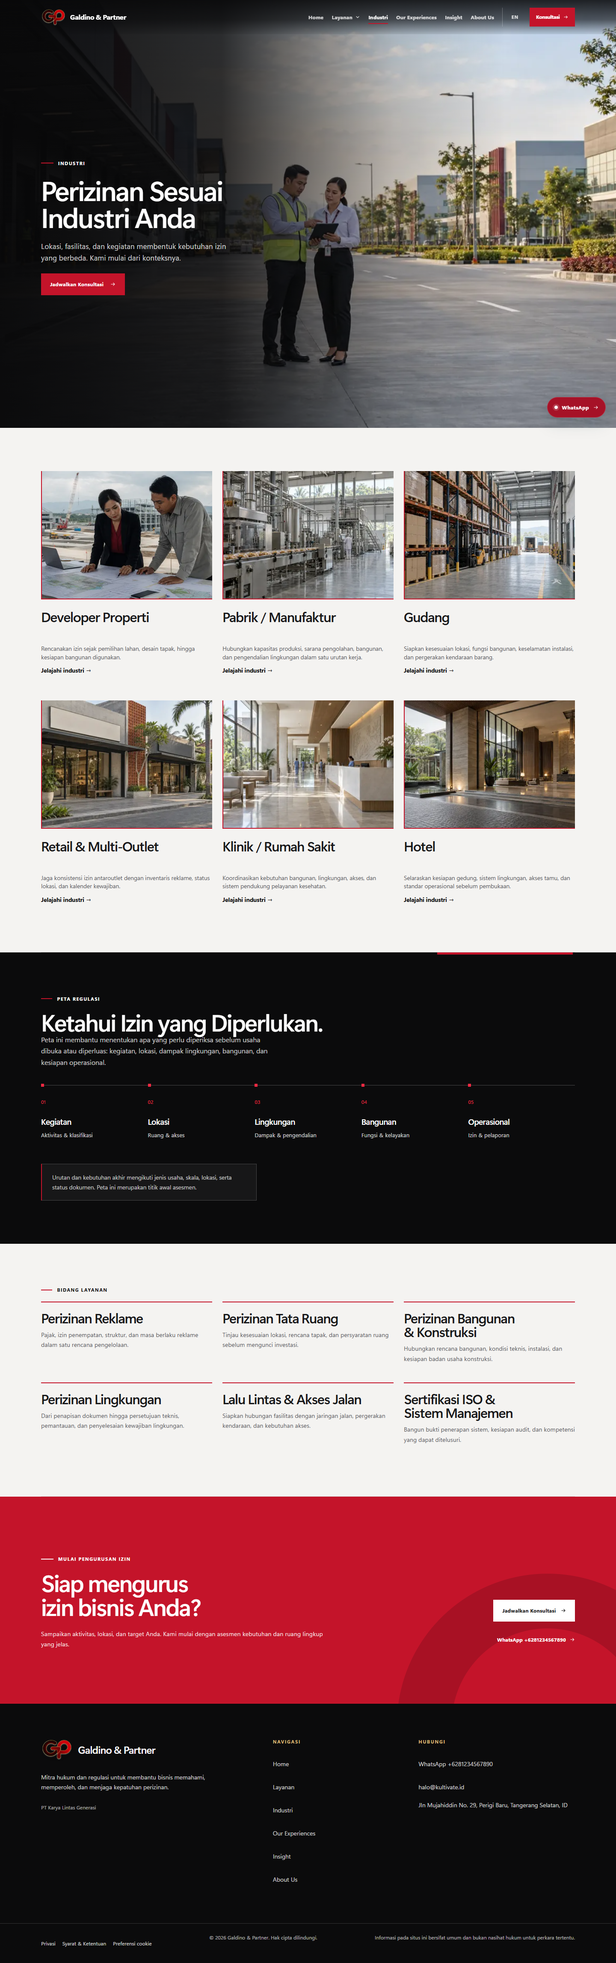
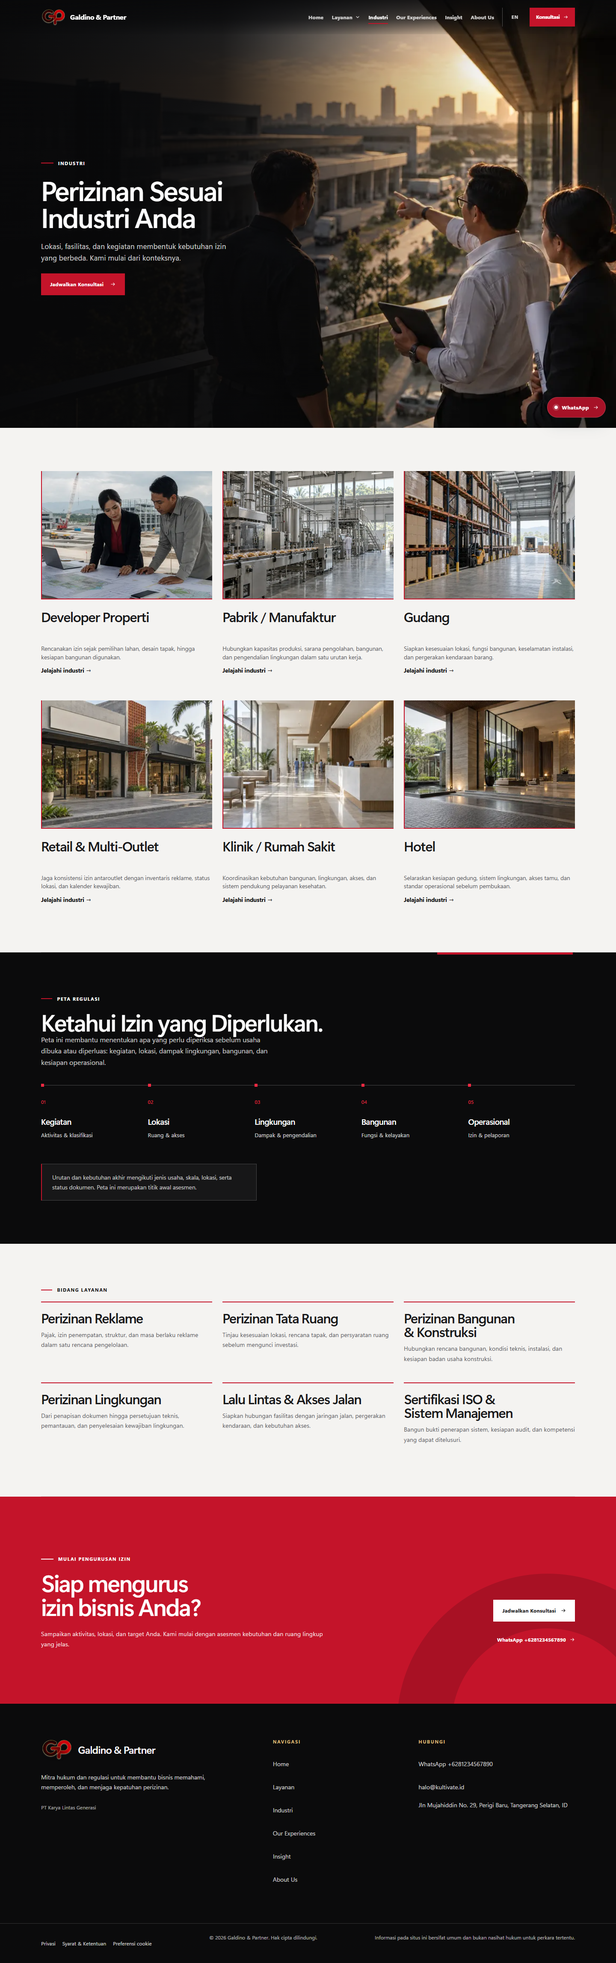
Restore About Us and service cards, apply supplied hero photos

Changed region(s): [[0.3125, 0.0, 1.0, 0.2182], [0.375, 0.2493, 0.5625, 0.3117]]

diff --git a/outputs/galdino_partner/website/scripts/browser/site.spec.ts b/outputs/galdino_partner/website/scripts/browser/site.spec.ts
@@ -194,7 +194,7 @@ test('brand headings, image framing, navigation and featured sections stay consi
  }
  expect(new Set(headings).size).toBe(1);
  await page.setViewportSize({width:375,height:1000});
- for(const route of ['projects/']){await page.goto('/id/'+route);await page.locator('.image-hero img').evaluate((img:HTMLImageElement)=>img.decode());expect(await page.locator('.image-hero img').evaluate((img:HTMLImageElement)=>img.currentSrc)).toContain('-mobile');}
+ for(const route of ['projects/']){await page.goto('/id/'+route);await page.locator('.image-hero img').evaluate((img:HTMLImageElement)=>img.decode());expect(await page.locator('.image-hero img').evaluate((img:HTMLImageElement)=>img.currentSrc)).toContain('hero-experiences-user-v2');}
  await page.setViewportSize({width:1440,height:1000});
  await page.goto('/id/');await expect(page.locator('#why-galdino-title')).toHaveText('Kenapa Galdino & Partner');
  await expect(page.locator('.why-section')).toHaveCSS('background-color','rgb(11, 11, 12)');
@@ -212,14 +212,14 @@ test('brand headings, image framing, navigation and featured sections stay consi
  await page.emulateMedia({reducedMotion:'reduce'});await page.locator('.services-nav summary').click();await expect(page.locator('.service-mega')).toBeVisible();await page.keyboard.press('Escape');await expect(page.locator('.service-mega')).not.toBeVisible();
 });
 
-test('main hero consultation paths and compact category directories',async({page})=>{
+test('main hero consultation paths and complete category cards',async({page})=>{
  for(const locale of ['id','en']){
   for(const route of ['services/','industries/','projects/','blog/']){
    await page.goto('/'+locale+'/'+route);await expect(page.locator('.image-hero__kicker')).toBeVisible();await expect(page.locator('.image-hero__cta')).toHaveAttribute('href','/'+locale+'/contact/');await expect(page.locator('.ed-breadcrumb')).toHaveCount(0);
   }
   for(const route of locale==='id'?['reklame','tata-ruang','bangunan-konstruksi','lingkungan','lalu-lintas-akses','iso']:['advertising-permits','spatial-planning','buildings-construction','environmental-approvals','traffic-road-access','iso-management-systems']){
    await page.goto('/'+locale+'/services/'+route+'/');await expect(page.locator('.category-process .permit-pathway li')).toHaveCount(4);await expect(page.locator('.category-process')).toHaveCSS('background-color','rgb(11, 11, 12)');await expect(page.locator('.related-cases')).toHaveCount(0);
-   await page.setViewportSize({width:1440,height:1000});const boxes=await page.locator('.service-entry').evaluateAll(els=>els.map(el=>el.getBoundingClientRect().y));expect(boxes[0]).toBe(boxes[1]);expect(new Set(boxes).size).toBe(Math.ceil(boxes.length/2));expect((await page.locator('#services-in-category').boundingBox())!.height).toBeLessThan(900);await expect(page.locator('.split-hero .ed-button')).toHaveAttribute('href','#services-in-category');
+   await page.setViewportSize({width:1440,height:1000});const boxes=await page.locator('.service-entry').evaluateAll(els=>els.map(el=>el.getBoundingClientRect().y));expect(boxes[0]).toBe(boxes[1]);expect(new Set(boxes).size).toBe(Math.ceil(boxes.length/2));await expect(page.locator('.service-entry .service-copy p').first()).toBeVisible();await expect(page.locator('.service-entry .service-bottom strong').first()).toBeVisible();await expect(page.locator('.split-hero .ed-button')).toHaveAttribute('href','#services-in-category');
    const faq=page.locator('.ed-details').first();await faq.locator('summary').click();await expect(faq).toHaveAttribute('open','');await faq.locator('summary').click();await expect(faq).not.toHaveAttribute('open','');
   }
  }
@@ -229,16 +229,28 @@ test('split detail heroes, compact profiles and contact follow the revised struc
  await page.addInitScript(v=>localStorage.setItem('gp-consent-v1',JSON.stringify(v)),consent);
  for(const locale of ['id','en']){
   for(const route of locale==='id'?['services/reklame/','services/reklame/pajak-reklame/','industries/developer-properti/']:['services/advertising-permits/','services/advertising-permits/advertising-tax/','industries/property-developers/']){
-   await page.goto('/'+locale+'/'+route);await expect(page.locator('.split-hero img')).toBeVisible();await expect(page.locator('.context-section .ed-button')).toHaveAttribute('href',new RegExp('/'+locale+'/contact/'));const href=await page.locator('.split-hero .ed-button').getAttribute('href');await page.locator('.split-hero .ed-button').click();await expect(page.locator(href!)).toBeInViewport();
-   if(route.startsWith('industries/')){await expect(page.locator('.dark-map')).toHaveCSS('background-color','rgb(11, 11, 12)');await expect(page.locator('.related-cases,.related-insights')).toHaveCount(0);}
+   await page.goto('/'+locale+'/'+route);await expect(page.locator('.split-hero img')).toBeVisible();await expect(page.locator('.split-hero')).toHaveCSS('background-color','rgb(255, 255, 255)');await expect(page.locator('.site-header')).not.toHaveClass(/site-header--immersive/);await expect(page.locator('.context-section .ed-button')).toHaveAttribute('href',new RegExp('/'+locale+'/contact/'));const href=await page.locator('.split-hero .ed-button').getAttribute('href');await page.locator('.split-hero .ed-button').click();await expect(page.locator(href!)).toBeInViewport();
+   if(route.startsWith('industries/')){await expect(page.locator('main')).not.toContainText(locale==='id'?'Mulai percakapan':'Start a conversation');await expect(page.locator('.dark-map')).toHaveCSS('background-color','rgb(11, 11, 12)');await expect(page.locator('.related-cases,.related-insights')).toHaveCount(0);}
   }
-  await page.goto('/'+locale+'/contact/');await expect(page.locator('.image-hero')).toHaveCount(0);await expect(page.locator('.site-header')).toBeVisible();await expect(page.locator('#contact-form')).toBeVisible();const copy=await page.locator('.contact-copy').boundingBox(),form=await page.locator('#contact-form').boundingBox();expect(copy!.x).toBeLessThan(form!.x);
+  await page.goto('/'+locale+'/contact/');await expect(page.locator('.image-hero')).toHaveCount(0);await expect(page.locator('.site-header')).toBeVisible();await expect(page.locator('#contact-form')).toBeVisible();const copy=await page.locator('.contact-copy').boundingBox(),form=await page.locator('#contact-form').boundingBox();expect(copy!.x).toBeLessThan(form!.x);await expect(page.locator('.contact-next-steps li')).toHaveCount(6);await expect(page.locator('#contact-next-title')).toHaveText(locale==='id'?'Apa yang Selanjutnya Terjadi?':'What Happens Next?');
   await page.goto('/'+locale+'/profile/hans-galdino/');await expect(page.locator('h1')).toHaveText('Hans Galdino');await expect(page.locator('.image-hero')).toHaveCount(0);await expect(page.locator('.related-insights')).toHaveCount(0);
-  await page.goto('/'+locale+'/profile/');await expect(page.locator('.principles li')).toHaveCount(5);await expect(page.locator('.profile-company__registry,.related-cases')).toHaveCount(0);expect((await page.locator('.founder-note').boundingBox())!.height).toBeLessThan(900);await expect(page.locator('.work-collage figure')).toHaveCount(6);
+  await page.goto('/'+locale+'/profile/');await expect(page.locator('.principles li')).toHaveCount(4);await expect(page.locator('.profile-company__registry')).toHaveCount(1);await expect(page.locator('.related-cases article')).toHaveCount(2);await expect(page.locator('.work-strip figure')).toHaveCount(4);
  }
  for(const route of ['services/iso/','industries/developer-properti/','profile/hans-galdino/','blog/apa-itu-pbg/']){await page.goto('/id/'+route);await page.locator('img').evaluateAll(async(images:HTMLImageElement[])=>{images.forEach(img=>img.loading='eager');await Promise.all(images.map(img=>img.decode()));});await page.screenshot({path:testInfo.outputPath('id-'+route.replaceAll('/','-')+'1440.png'),fullPage:true,animations:'disabled'});}
  await page.goto('/id/blog/apa-itu-pbg/');await expect(page.locator('.article-header h1')).toBeVisible();await expect(page.locator('main')).not.toContainText('menit baca');await expect(page.locator('.article-body .ed-toc')).toBeVisible();
  await page.goto('/id/industries/');await expect(page.locator('.sector-index,.tile-image span')).toHaveCount(0);
  await page.goto('/id/services/');await expect(page.locator('.photo-number,.category-photo figcaption')).toHaveCount(0);
  await page.emulateMedia({reducedMotion:'no-preference'});const link=page.locator('.category-all').first();await link.hover();await expect(link).toHaveCSS('transform','matrix(1, 0, 0, 1, 0, -2)');
+});
+
+test('experience details describe the actual challenge without an insights segment',async({page})=>{
+ for(const locale of ['id','en']){
+  for(const slug of ['aruna-pangan','nusa-teknologi','prima-distribusi','vertex-konstruksi','lintas-logistik','karya-properti']){
+   await page.goto('/'+locale+'/projects/'+slug+'/');
+   await expect(page.locator('.related-insights')).toHaveCount(0);
+   await expect(page.getByRole('heading',{name:locale==='id'?'Lihat Kasus Lainnya':'View Other Cases',exact:true})).toBeVisible();
+   await expect(page.locator('main')).not.toContainText(locale==='id'?'Membaca kebutuhan sebelum menentukan langkah.':'Understand the need before deciding the next step.');
+   if(slug==='nusa-teknologi')await expect(page.getByRole('heading',{name:locale==='id'?'Dokumen Keamanan Informasi Tersebar.':'Information Security Records Were Scattered.',exact:true})).toBeVisible();
+  }
+ }
 });

diff --git a/outputs/galdino_partner/website/src/data/experiences.ts b/outputs/galdino_partner/website/src/data/experiences.ts
@@ -1,5 +1,5 @@
 import type {Locale} from './site';
-export interface Experience {slug:string;company:string;imageKey:string;location:string;year:string;provisional:boolean;services:string[];content:Record<Locale,{industry:string;stage:string;title:string;challenge:string;approach:string;deliverables:string[];duration:string;outcome:string}>;}
+export interface Experience {slug:string;company:string;imageKey:string;location:string;year:string;provisional:boolean;services:string[];content:Record<Locale,{industry:string;stage:string;title:string;challengeTitle:string;challenge:string;approachTitle:string;approach:string;deliverablesTitle:string;deliverables:string[];duration:string;outcome:string}>;}
 export const EXPERIENCES:Experience[]=[
   {
     "slug": "aruna-pangan",
@@ -27,7 +27,10 @@ export const EXPERIENCES:Experience[]=[
           "Jadwal tindak lanjut"
         ],
         "duration": "6 minggu",
-        "outcome": "Jalur perizinan diperjelas dan dokumen lintas tim terkonsolidasi untuk persiapan pengajuan."
+        "outcome": "Jalur perizinan diperjelas dan dokumen lintas tim terkonsolidasi untuk persiapan pengajuan.",
+        "challengeTitle": "Data Ekspansi Produksi Belum Terpadu.",
+        "approachTitle": "Mencocokkan Proses dan Data Produksi.",
+        "deliverablesTitle": "Matriks Izin dan Register Produksi."
       },
       "en": {
         "industry": "Food manufacturing",
@@ -42,7 +45,10 @@ export const EXPERIENCES:Experience[]=[
           "Follow-up schedule"
         ],
         "duration": "6 weeks",
-        "outcome": "The licensing pathway was clarified and cross-team documents consolidated for submission preparation."
+        "outcome": "The licensing pathway was clarified and cross-team documents consolidated for submission preparation.",
+        "challengeTitle": "Expansion Records Were Fragmented.",
+        "approachTitle": "Aligning Processes and Production Records.",
+        "deliverablesTitle": "Permit Matrix and Production Register."
       }
     }
   },
@@ -71,7 +77,10 @@ export const EXPERIENCES:Experience[]=[
           "Rencana audit internal"
         ],
         "duration": "3 minggu",
-        "outcome": "Tim memperoleh prioritas perbaikan dan daftar bukti yang perlu disiapkan sebelum proses audit independen."
+        "outcome": "Tim memperoleh prioritas perbaikan dan daftar bukti yang perlu disiapkan sebelum proses audit independen.",
+        "challengeTitle": "Dokumen Keamanan Informasi Tersebar.",
+        "approachTitle": "Memetakan Aset, Risiko, dan Kontrol.",
+        "deliverablesTitle": "Prioritas Perbaikan Sebelum Audit."
       },
       "en": {
         "industry": "Technology",
@@ -86,7 +95,10 @@ export const EXPERIENCES:Experience[]=[
           "Internal-audit plan"
         ],
         "duration": "3 weeks",
-        "outcome": "The team received improvement priorities and an evidence list to prepare before an independent audit."
+        "outcome": "The team received improvement priorities and an evidence list to prepare before an independent audit.",
+        "challengeTitle": "Information Security Records Were Scattered.",
+        "approachTitle": "Mapping Assets, Risks, and Controls.",
+        "deliverablesTitle": "Improvement Priorities Before the Audit."
       }
     }
   },
@@ -116,7 +128,10 @@ export const EXPERIENCES:Experience[]=[
           "Matriks tindak lanjut"
         ],
         "duration": "5 minggu",
-        "outcome": "Status setiap titik dapat ditelusuri dan prioritas pembaruan tersusun untuk koordinasi kantor pusat serta cabang."
+        "outcome": "Status setiap titik dapat ditelusuri dan prioritas pembaruan tersusun untuk koordinasi kantor pusat serta cabang.",
+        "challengeTitle": "Arsip Reklame Antar-Outlet Tidak Seragam.",
+        "approachTitle": "Mencocokkan Media dengan Arsip Outlet.",
+        "deliverablesTitle": "Inventaris Reklame dan Kalender Perpanjangan."
       },
       "en": {
         "industry": "Retail and distribution",
@@ -131,7 +146,10 @@ export const EXPERIENCES:Experience[]=[
           "Follow-up matrix"
         ],
         "duration": "5 weeks",
-        "outcome": "Each location's status became traceable, with renewal priorities established for coordination between head office and branches."
+        "outcome": "Each location's status became traceable, with renewal priorities established for coordination between head office and branches.",
+        "challengeTitle": "Outlet Advertising Records Were Inconsistent.",
+        "approachTitle": "Reconciling Advertising Media and Outlet Records.",
+        "deliverablesTitle": "Advertising Inventory and Renewal Calendar."
       }
     }
   },
@@ -161,7 +179,10 @@ export const EXPERIENCES:Experience[]=[
           "Arsip kelengkapan"
         ],
         "duration": "4 minggu",
-        "outcome": "Kesenjangan dokumen teridentifikasi dan paket administratif dipersiapkan untuk proses sertifikasi."
+        "outcome": "Kesenjangan dokumen teridentifikasi dan paket administratif dipersiapkan untuk proses sertifikasi.",
+        "challengeTitle": "Bukti Kapasitas Konstruksi Belum Selaras.",
+        "approachTitle": "Menyelaraskan Lingkup dan Kompetensi.",
+        "deliverablesTitle": "Register Kelengkapan Badan Usaha."
       },
       "en": {
         "industry": "Construction",
@@ -176,7 +197,10 @@ export const EXPERIENCES:Experience[]=[
           "Completeness archive"
         ],
         "duration": "4 weeks",
-        "outcome": "Document gaps were identified and an administrative pack prepared for certification."
+        "outcome": "Document gaps were identified and an administrative pack prepared for certification.",
+        "challengeTitle": "Construction Capability Evidence Needed Alignment.",
+        "approachTitle": "Aligning Scope and Competence.",
+        "deliverablesTitle": "Business Readiness Register."
       }
     }
   },
@@ -207,7 +231,10 @@ export const EXPERIENCES:Experience[]=[
           "Rencana penutupan kekurangan data"
         ],
         "duration": "3 minggu",
-        "outcome": "Kebutuhan dokumen serta pemeriksaan lanjutan terpetakan sebelum pengajuan dan keputusan penggunaan fasilitas."
+        "outcome": "Kebutuhan dokumen serta pemeriksaan lanjutan terpetakan sebelum pengajuan dan keputusan penggunaan fasilitas.",
+        "challengeTitle": "Arsip Gudang dan Akses Terpisah.",
+        "approachTitle": "Mengonsolidasikan Bangunan dan Sirkulasi Truk.",
+        "deliverablesTitle": "Kebutuhan Pemeriksaan dan Data Lanjutan."
       },
       "en": {
         "industry": "Warehousing and logistics",
@@ -222,7 +249,10 @@ export const EXPERIENCES:Experience[]=[
           "Information-gap closure plan"
         ],
         "duration": "3 weeks",
-        "outcome": "Document and inspection requirements were clarified before applications and decisions about facility use."
+        "outcome": "Document and inspection requirements were clarified before applications and decisions about facility use.",
+        "challengeTitle": "Warehouse and Access Records Were Separate.",
+        "approachTitle": "Consolidating Building and Truck-Access Records.",
+        "deliverablesTitle": "Inspection and Further Information Requirements."
       }
     }
   },
@@ -253,7 +283,10 @@ export const EXPERIENCES:Experience[]=[
           "Register isu terbuka"
         ],
         "duration": "5 minggu",
-        "outcome": "Kebutuhan kajian dan dependensi regulasi dipetakan sebelum ruang lingkup pengembangan ditetapkan."
+        "outcome": "Kebutuhan kajian dan dependensi regulasi dipetakan sebelum ruang lingkup pengembangan ditetapkan.",
+        "challengeTitle": "Prioritas Izin Proyek Belum Jelas.",
+        "approachTitle": "Menghubungkan Dokumen dengan Jadwal Proyek.",
+        "deliverablesTitle": "Roadmap Izin dan Matriks Dependensi."
       },
       "en": {
         "industry": "Property",
@@ -268,7 +301,10 @@ export const EXPERIENCES:Experience[]=[
           "Open issue register"
         ],
         "duration": "5 weeks",
-        "outcome": "Study requirements and regulatory dependencies were mapped before the development scope was fixed."
+        "outcome": "Study requirements and regulatory dependencies were mapped before the development scope was fixed.",
+        "challengeTitle": "Project Approval Priorities Needed Clarity.",
+        "approachTitle": "Connecting Documents to the Project Schedule.",
+        "deliverablesTitle": "Permit Roadmap and Dependency Matrix."
       }
     }
   }

diff --git a/outputs/galdino_partner/website/src/data/about.ts b/outputs/galdino_partner/website/src/data/about.ts
@@ -3,13 +3,13 @@ export const ABOUT={
  id:{
   note:'Pendampingan yang baik memberi pemilik usaha ruang untuk mengambil keputusan. Tugas kami adalah membuat kebutuhan, urutan, dan tanggung jawabnya jelas sejak awal.',
   milestones:[['2015','Awal perjalanan','Memulai pendampingan legalitas dengan perhatian pada kebutuhan pemilik usaha.'],['Bertumbuh','Koordinasi lintas bidang','Memperluas kerja bersama tim usaha, konsultan teknis, dan pemilik dokumen.'],['Berfokus','Perizinan yang terhubung','Menghubungkan ruang, bangunan, lingkungan, akses, reklame, dan sistem manajemen.'],['Kini','Kejelasan dalam pelaksanaan','Menyusun pendampingan dengan ruang lingkup dan progres yang dapat ditelusuri.']],
-  principles:[['Ketelitian','Nama, lokasi, kapasitas, dan dokumen dibaca sebagai satu konteks.'],['Urutan yang jelas','Dependensi dipetakan sebelum pekerjaan dan pengajuan dimulai.'],['Progres terlihat','Status, kekurangan data, dan pemilik tindak lanjut dicatat bersama.'],['Konteks usaha','Keputusan mempertimbangkan kegiatan serta rencana operasional Anda.'],['Kerahasiaan','Informasi dan dokumen usaha dibagikan hanya untuk kebutuhan pendampingan yang disepakati.']],
+  principles:[['Ketelitian','Nama, lokasi, kapasitas, dan dokumen dibaca sebagai satu konteks.'],['Urutan yang jelas','Dependensi dipetakan sebelum pekerjaan dan pengajuan dimulai.'],['Progres terlihat','Status, kekurangan data, dan pemilik tindak lanjut dicatat bersama.'],['Konteks usaha','Keputusan mempertimbangkan kegiatan serta rencana operasional Anda.']],
   captions:['Diskusi kebutuhan','Review dokumen','Konteks lapangan','Koordinasi tim']
  },
  en:{
   note:'Good support gives business owners room to make decisions. Our role is to make requirements, sequencing and responsibilities clear from the start.',
   milestones:[['2015','The beginning','Starting legal-administrative support with attention to business owners’ requirements.'],['Growing','Working across disciplines','Extending coordination with business teams, technical advisers and document owners.'],['Focusing','Connected approvals','Bringing together space, buildings, environment, access, advertising and management systems.'],['Today','Clarity in delivery','Structuring engagements around an agreed scope and traceable progress.']],
-  principles:[['Precision','Names, locations, capacity and documents are reviewed in context.'],['Clear sequencing','Dependencies are mapped before preparation and submission.'],['Visible progress','Status, information gaps and action owners are recorded together.'],['Business context','Decisions consider your activities and operating plans.'],['Confidentiality','Business information and records are shared only for the agreed engagement needs.']],
+  principles:[['Precision','Names, locations, capacity and documents are reviewed in context.'],['Clear sequencing','Dependencies are mapped before preparation and submission.'],['Visible progress','Status, information gaps and action owners are recorded together.'],['Business context','Decisions consider your activities and operating plans.']],
   captions:['Discussing requirements','Reviewing documents','Understanding the site','Team coordination']
  }
 };

diff --git a/outputs/galdino_partner/website/src/data/hero-images.ts b/outputs/galdino_partner/website/src/data/hero-images.ts
@@ -1,10 +1,9 @@
-import services from '../assets/hero-services.webp';
-import industries from '../assets/hero-industries.webp';
-import experiences from '../assets/hero-experiences.webp';
-import insights from '../assets/hero-insights.webp';
+import services from '../assets/hero-services-user-v2.webp';
+import industries from '../assets/hero-industries-user-v2.webp';
+import experiences from '../assets/hero-experiences-user-v2.webp';
+import insights from '../assets/hero-insights-user-v2.webp';
 import contact from '../assets/hero-contact.webp';
 
-import experiencesMobile from "../assets/hero-experiences-mobile.webp";
 import contactMobile from "../assets/hero-contact-mobile.webp";
 
-export const heroImages = {services, industries, experiences, insights, contact, experiencesMobile, contactMobile};
+export const heroImages = {services, industries, experiences, insights, contact, contactMobile};

diff --git a/outputs/galdino_partner/website/docs/QA_REPORT.md b/outputs/galdino_partner/website/docs/QA_REPORT.md
@@ -9,7 +9,7 @@ Verified 1 October 2026 on Windows, Node 24.11.1, Microsoft Edge and the local p
 - npm run build: production build completed.
 - npm run validate: 167 pages, 38 services, 6 categories, 4 environmental groups, 6 industries, 14 articles per language; 0 validation errors. Checks include internal links, locale alternates, metadata, schemas, forms, images, sitemap/RSS and the noindex gate.
 - Production preview smoke test: Indonesian and English Services, Industries, Contact and Insight index routes all returned HTTP 200; URLs without the trailing slash redirected to the canonical slash URL.
-- npm run test:browser: 39 passed, 0 failed, 0 flaky. Responsive checks covered 17 representative routes at widths 320, 375, 430, 768, 900, 1024, 1280, 1440 and 1920 pixels (153 route/viewport checks), without horizontal overflow or uncaught page errors.
+- npm run test:browser: 40 passed, 0 failed, 0 flaky. Responsive checks covered 17 representative routes at widths 320, 375, 430, 768, 900, 1024, 1280, 1440 and 1920 pixels (153 route/viewport checks), without horizontal overflow or uncaught page errors.
 - Axe scanned 13 representative pages and reported no WCAG 2 A/AA or 2.1 A/AA violations.
 - Browser checks cover mobile navigation and mega menu, bilingual navigation, the hidden Services search, service links and images, experience filters, contact form states, consent, analytics gating, noindex, redirects, and selected desktop/mobile hero assets.
 - Contact form tests use a local in-memory SMTP sink and do not send real email.
@@ -30,6 +30,6 @@ Home, Services and Contact measured below the project's 90-point performance tar
 
 ## Visual review and launch
 
-Home and About Us use their original hero layouts. Services, Industries, Our Experiences and Insight retain distinct wide hero photographs. Our Experiences switches to a purpose-composed portrait image on narrow screens. Contact has no banner and uses context left, form right. All images are centered. Services restore smaller centered cover photos with red left/bottom accents, without numbers or captions; Home case photography restores cover framing. Industry cards use centered cover framing and red accents. Main index heroes follow Home with a dash/tag, benefit headline, lead and consultation button; breadcrumb strips are removed. Category hubs use two compact entries per row and specific dark process maps with initial-record guidance. FAQ disclosure and interactive links have minimal motion with reduced-motion support. Contact keeps the main navbar above the inquiry section; the navbar has no separate Contact item. Home's dark section presents “Why Galdino & Partner,” and Industries uses the same dark background for its regulatory map. The old How We Work URLs redirect to the updated Home section. Category, service and industry detail heroes use copy left, bordered photography right and a section CTA. Sector detail pages remove cases, insights and the duplicate sequence section. About Us has a compact founder note, five balanced principles and an asymmetric photo collage. Individual professional profiles have no banner and remove related services/insights. Articles follow the Kultivate editorial structure without reading durations.
+Home and About Us use their original hero layouts. Services, Industries, Our Experiences and Insight retain distinct wide hero photographs. The five supplied mockup photographs are cleaned of embedded UI and used on their matching main pages, including Our Experiences on mobile. Contact has no banner and uses context left, form right. All images are centered. Services restore smaller centered cover photos with red left/bottom accents, without numbers or captions; Home case photography restores cover framing. Industry cards use centered cover framing and red accents. Main index heroes follow Home with a dash/tag, benefit headline, lead and consultation button; breadcrumb strips are removed. Category hubs use two complete cards per row with a short description and provisional price and specific dark process maps with initial-record guidance. FAQ disclosure and interactive links have minimal motion with reduced-motion support. Contact restores six next-step explanations in the left column and keeps the main navbar above the inquiry section; the navbar has no separate Contact item. Home's dark section presents “Why Galdino & Partner,” and Industries uses the same dark background for its regulatory map. The old How We Work URLs redirect to the updated Home section. Category, service and industry detail heroes have white backgrounds, dark copy left, bordered photography right and a section CTA. Sector detail pages remove cases, insights and the duplicate sequence section. About Us is restored from 19135e9, including its company facts, founder note, four principles, photo strip and related cases. Individual professional profiles have no banner and remove related services/insights. Articles follow the Kultivate editorial structure without reading durations.
 
 Hostinger access and a GTM ID are not yet available, as confirmed by the user. Production hosting, real SMTP receipt, live analytics and Search Console checks remain unverified. Prices and content remain provisional; indexing stays disabled. Broader unused-file cleanup is listed in docs/CLEANUP_REVIEW.md and was not included in deleting the specifically requested How We Work page.

diff --git a/outputs/galdino_partner/website/docs/REVISION_2026-10-01-RESTORATION.md b/outputs/galdino_partner/website/docs/REVISION_2026-10-01-RESTORATION.md
@@ -1,0 +1,40 @@
+# Revision — approved restoration and supplied photographs
+
+This revision supersedes REVISION_2026-10-01-FOLLOWUP.md where their requirements differ.
+
+## Confirmed decisions
+
+The user confirmed using only the photographic backgrounds of the five supplied mockups, removing their embedded navigation, logos, copy and buttons. Existing website fonts and live HTML controls remain the source of typography and interaction.
+
+About Us is restored from commit 19135e9, including company facts, founder note, timeline, four principles, the four-image work strip and related experiences. Its banner uses the new supplied office photograph. All four individual professional profiles retain the latest copy-left/portrait-right layout from 44ba85c.
+
+Category service cards return to two columns on desktop and one on mobile, with the short service description and provisional estimated price visible. Section height follows the number of services; the one-screen limit is withdrawn.
+
+## Resulting layouts
+
+All split detail banners for service categories, specific services and industry pages have white backgrounds, dark copy, a bordered image on the right and a CTA to their relevant content. These pages use the normal readable navbar. Main index banners remain full-screen photographic heroes.
+
+Industry pages omit the “Mulai percakapan” section. Experience detail headings identify each case’s actual challenge, approach and deliverables. The related Insight section is removed from experience details, and their case recommendations are headed “Lihat Kasus Lainnya” / “View Other Cases”.
+
+Contact has no hero and retains the navbar. Explanatory copy, six “Apa yang Selanjutnya Terjadi?” steps and direct contact details sit on the left; the inquiry form sits on the right. The steps adapt Kultivate’s contact composition to Galdino’s process. No unconfirmed response-time promise has been copied.
+
+## Image assets and provenance
+
+Edits used the built-in imagegen tool, followed by WebP encoding at quality 90 without cropping or resizing. Generated originals remain in the Codex generated-images folder. Project assets are 1672 × 941 pixels, with no embedded website copy or navigation.
+
+All final assets are under:
+C:/Users/Joshua/OneDrive/Documents/Law/outputs/galdino_partner/website/src/assets/
+
+| User-supplied edit target | Project asset | Main page |
+| --- | --- | --- |
+| Jasa Perizinan untuk Bisnis Anda-1.png | hero-services-user-v2.webp | Services |
+| Galdino & Partner_ Tim di Balik Perizinan-5.png | hero-about-user-v2.webp | About Us |
+| Insight_ Memahami Izin Bisnis Anda-4.png | hero-insights-user-v2.webp | Insight |
+| Professional Guidance at Sunset-3.png | hero-experiences-user-v2.webp | Our Experiences |
+| Industrial Consulting Hero Scene-2.png | hero-industries-user-v2.webp | Industries |
+
+Each source was edited separately with this same prompt:
+
+> Use case: precise-object-edit. Edit target: attached finished website hero mockup. Produce ONLY its clean photographic background as a wide 16:9 image. Remove all overlaid website text, headlines, logos, navigation, buttons, lines, and UI panels, reconstructing the underlying photographic scene naturally. Preserve the original people, faces, poses, office or architectural setting, camera framing, warm sunset light, and photographic composition as closely as possible. Keep the entire scene edge to edge without borders or letterboxing. Preserve the darker left negative space for live HTML text, but do not add darkness across the people on the right. No text, typography, branding, watermark or UI anywhere.
+
+The supplied mockups are visual edit targets. Their baked-in text, alternative typefaces and arrow designs were not treated as independent implementation instructions. The user’s confirmed written request controls the implementation.

diff --git a/outputs/galdino_partner/website/docs/REQUIREMENTS.md b/outputs/galdino_partner/website/docs/REQUIREMENTS.md
@@ -2,10 +2,12 @@
 
 Latest user direction supersedes the earlier 15-service catalogue: exactly 38 services in six categories; four environmental subcategories; six industries (property, manufacturing, warehouses, retail, healthcare, hotels). Remove earlier services that do not fit. Preserve approved Home/About compositions.
 
-Primary navigation: Home, Layanan, Industri, Our Experiences, Insight, About Us, plus Consultation CTA. Our Experiences and About Us use the same labels in both languages. Contact retains the main navbar without a hero banner. The standalone How We Work page is removed; its former URLs redirect to Home's updated “Why Galdino & Partner” section. Home keeps the existing dark-and-red palette for that section while presenting the firm's principles in a new split layout. The Industries “Peta regulasi” section uses the same black background and light text treatment as Home's dark section. Service search is temporarily hidden, and service photo numbering and captions are removed; photo accents use red on the left and bottom. Retain ID/EN equivalents and existing hub URL names; service routes use category/service paths. The six-category mega menu and visible Services directory link directly to every service. Environmental groupings retain anchors within the compact category service row, with 301 redirects from the earlier deep URLs.
+Primary navigation: Home, Layanan, Industri, Our Experiences, Insight, About Us, plus Consultation CTA. Our Experiences and About Us use the same labels in both languages. Contact retains the main navbar without a hero banner. The standalone How We Work page is removed; its former URLs redirect to Home's updated “Why Galdino & Partner” section. Home keeps the existing dark-and-red palette for that section while presenting the firm's principles in a new split layout. The Industries “Peta regulasi” section uses the same black background and light text treatment as Home's dark section. Service search is temporarily hidden, and service photo numbering and captions are removed; photo accents use red on the left and bottom. Retain ID/EN equivalents and existing hub URL names; service routes use category/service paths. The six-category mega menu and visible Services directory link directly to every service. Environmental groupings retain anchors within the complete category service directory, with 301 redirects from the earlier deep URLs.
 
 New prices are research-derived provisional estimates. Indexing remains disabled. Retain provisional facts in an internal field-level register without visible placeholder markers.
 
 Each service has definition, rationale, audience, triggers, scope, deliverables, documents, process, timing, fee scope, cost factors, exclusions, six FAQs and relevant links. Industry detail pages connect to relevant services; their case and insight sections are removed. Insights include search, category/tag filters, TOC, references, share controls and language equivalents.
 
 Node SMTP form, privacy and terms, consent-gated analytics, accessible responsive UI, canonical/hreflang/schema/RSS/sitemap/404. Testing and deployment evidence must distinguish locally verified behaviour from missing external access.
+
+Latest approved restoration: see REVISION_2026-10-01-RESTORATION.md. Detail split banners are white; category cards show descriptions and provisional prices. About Us is restored from 19135e9 while current individual profile layouts remain. Supplied photographs replace five main banners after removal of embedded text/UI. Contact includes six next-step explanations left of the form. Experience details omit related insights and use case-specific headings.

diff --git a/outputs/galdino_partner/website/docs/PAGE_SPECIFICATIONS.md b/outputs/galdino_partner/website/docs/PAGE_SPECIFICATIONS.md
@@ -1,17 +1,17 @@
 # Page specifications
 
-See SITE_MAP.md for every URL and REVISION_2026-10-01-FOLLOWUP.md for the latest message revision decisions.
+See SITE_MAP.md for every URL and REVISION_2026-10-01-RESTORATION.md for the latest message revision decisions.
 
 Home and About: approved composition retained, completed central data, four people including Hans, service rail linked to six categories, working case/article destinations, link to the process section on Home.
 
-Services: six visible category sections with links to all 38 services with service search temporarily hidden and small photographs with red left/bottom accents and no numbering or captions. Six dedicated hubs include a combined context section, a compact two-column service directory, category-specific dark process maps with initial-document guidance, and FAQ. Hubs omit related cases and insights. The environmental hub has four preserved group anchors, with short category/service URLs. Detail pages include all specified scope/document/process/fee/FAQ sections and connected content.
+Services: six visible category sections with links to all 38 services with service search temporarily hidden and small photographs with red left/bottom accents and no numbering or captions. Six dedicated hubs include a combined context section, a complete two-column service directory with descriptions and provisional fee estimates, category-specific dark process maps with initial-document guidance, and FAQ. Hubs omit related cases and insights. The environmental hub has four preserved group anchors, with short category/service URLs. Detail pages include all specified scope/document/process/fee/FAQ sections and connected content.
 
 Industries: equal three-column index (two on tablet, one on mobile), without industry focus, case studies or insights sections. Six sector pages with split heroes, combined context and preparation records, a black requirement map, and relevant services. Related cases, insights and the duplicate work sequence are removed.
 
-Our Experiences: compact gray featured panel plus equal three-column cards (two on tablet, one on mobile). Detail pages cover challenge, approach, deliverables, timing, outcome and related services. All case narratives remain provisional.
+Our Experiences: compact gray featured panel plus equal three-column cards (two on tablet, one on mobile). Detail pages use case-specific challenge, approach and deliverable headings, plus timing, outcome, related services and other cases; related insights are omitted. All case narratives remain provisional.
 
 Insight: 14 bilingual article pairs including the five requested new topics. Gray editorial selection. Search/category/tag filters, result counts and empty/reset state; compact editorial article headers, TOC, dates, references, notices, share links, related services/articles and reciprocal translations.
 
-Contact: main navbar and no banner, with context left and form right; required business inquiry fields, explicit privacy consent, no attachment or marketing field, free initial consultation, safe failure handling, success dialog and the response process integrated into the introduction.
+Contact: main navbar and no banner, with context left and form right; required business inquiry fields, explicit privacy consent, no attachment or marketing field, free initial consultation, safe failure handling, success dialog and six next-step explanations alongside the introduction.
 
 Privacy/Terms: bilingual controller, purposes, processors, rights and retention. 404: status-preserving Node page that selects the requested locale.
